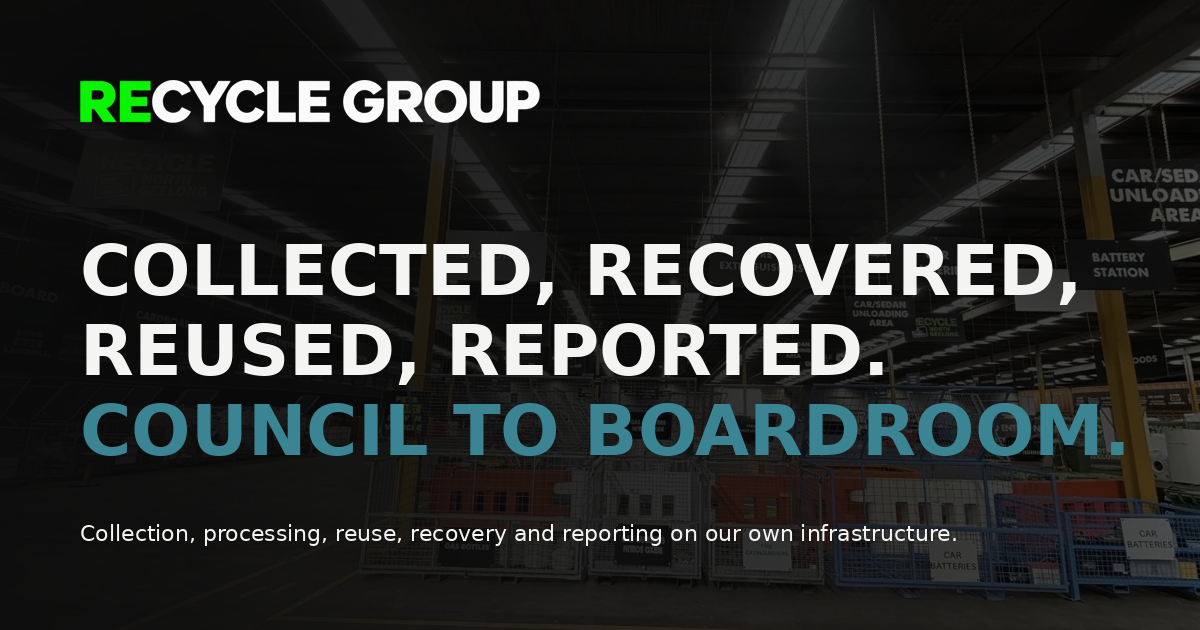
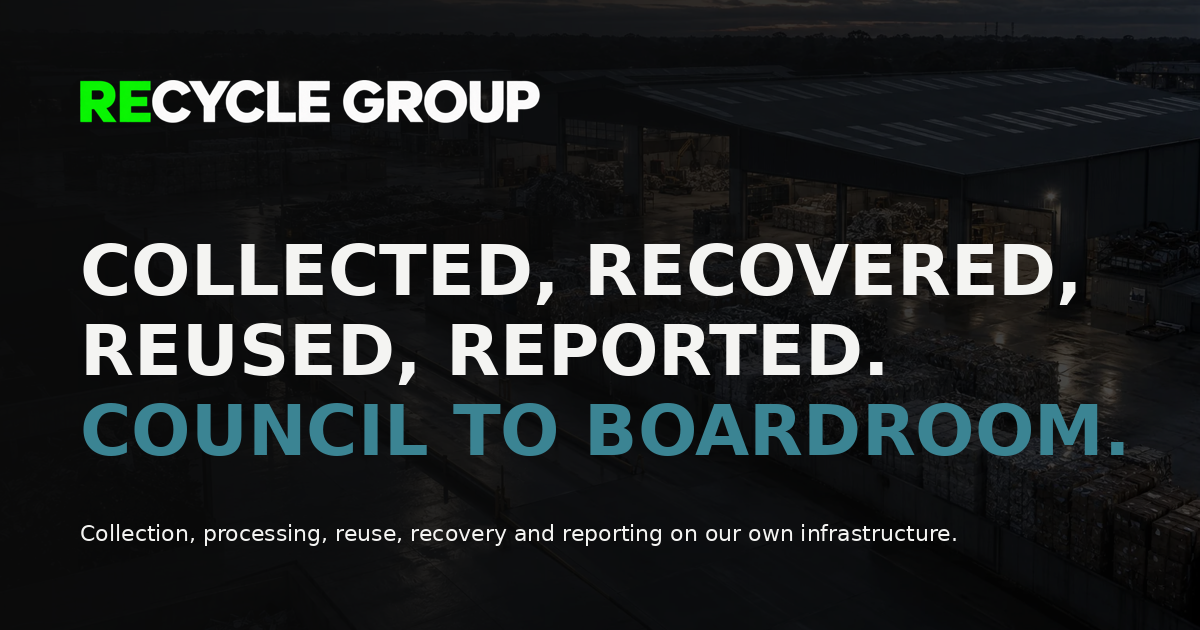
v7 imagery: 28 generated photographs — home hero and cards, every sector page, every role page, every material stream; captions and alt text updated

diff --git a/docs/materials/index.html b/docs/materials/index.html
@@ -21,7 +21,7 @@
   <div class="photo" style="background-image:url(/recycle-group/img/infra-mattress-line.webp)" aria-hidden="true"></div><div class="shade" aria-hidden="true"></div>
   
   <div class="wrap"><div class="eyebrow">Materials</div><h1 class="h1">Nothing here is&nbsp;“away”.</h1><p class="sub">What happens to each material stream after the weighbridge — where it goes, what it becomes and what the group can show for it.</p></div>
-</section><section class="sec light"><div class="wrap"><div style="border-top:1px solid var(--line)"><div class="stream rv"><div class="n">01</div><div class="ph"><img src="/recycle-group/img/infra-mattress-line.webp" alt="Mattress processing line with recovered spring steel in a cage" loading="lazy"></div><div><h3>Mattresses<small>The Mattress Recycling Company</small></h3><p>Every mattress is stripped to steel, foam, timber and fibre. The steel is baled and exported as a commodity; per 10,000 mattresses around 270 tonnes of steel come out of 800 tonnes in, with 99% of that steel recovered. Shredded residual is a quarter of its original volume — less landfill space and better compaction.</p></div><div class="facts"><div><span>Processed</span><b>12,000–30,000 a month</b></div><div><span>Steel content</span><b>about 30% by weight</b></div><div><span>Time per mattress</span><b>about 38 seconds</b></div><div><span>Steel recovered</span><b>99%</b></div><div><span>Residual volume</span><b>25% of original</b></div></div></div><div class="stream rv"><div class="n">02</div><div class="ph"><img src="/recycle-group/img/infra-polystyrene.webp" alt="Cage of expanded polystyrene awaiting densification" loading="lazy"></div><div><h3>Polystyrene&nbsp;(EPS)<small>Styro</small></h3><p>Expanded polystyrene is up to 98% air. Styro densifies it into blocks a fraction of the size and reprocesses it for products such as picture frames, cornices and laminated timber — and exports processed EPS under the group's own licence. Australia generates around 45,000 tonnes of polystyrene a year.</p></div><div class="facts"><div><span>Saved from landfill</span><b>41,580 m³ in 12 months</b></div><div><span>Per 40 ft container</span><b>6,930 m³</b></div><div><span>Plant</span><b>Australia's largest</b></div><div><span>Export licence</span><b>WASTE-LIC-2026-V6M6D7 (EPS)</b></div></div></div><div class="stream rv"><div class="n">03</div><div class="ph"><img src="/recycle-group/img/infra-cardboard.webp" alt="Baled cardboard in a cage ready for containerisation" loading="lazy"></div><div><h3>Cardboard &amp;&nbsp;paper<small>Recycle North Geelong</small></h3><p>Cardboard is separated at the sort line, baled on the group's own balers and conveyors, containerised and exported. Retail, ports and logistics generate it by the tonne; the group turns it into a commodity rather than a cost.</p></div><div class="facts"><div><span>Pathway</span><b>Bale → container → export</b></div><div><span>Equipment</span><b>Balers and conveyors on site</b></div></div></div><div class="stream rv"><div class="n">04</div><div class="ph"><img src="/recycle-group/img/process-excavator.webp" alt="Excavator loading material inside the resource recovery centre" loading="lazy"></div><div><h3>Timber &amp;&nbsp;pallets<small>Recycle North Geelong · Timbercycle</small></h3><p>Pallets, dunnage, fit-out timber and plain timber are separated on site and recovered for reprocessing.</p></div><div class="facts"><div><span>Sources</span><b>Pallets, dunnage, fit-outs, construction</b></div><div><span>Pathway</span><b>Recovery and reprocessing</b></div></div></div><div class="stream rv"><div class="n">05</div><div class="ph"><img src="/recycle-group/img/recover-container.webp" alt="Forklift loading baled mattress steel into a shipping container" loading="lazy"></div><div><h3>Metals<small>Recycle North Geelong · The Mattress Recycling Company</small></h3><p>Metals come off the sort line and out of every mattress. Baled spring steel and recovered metals are exported as commodities — the group's $8.5 million investment in mattress processing was made to recover 99% of that steel.</p></div><div class="facts"><div><span>Mattress steel a year</span><b>3,800–9,600 tonnes</b></div><div><span>Pathway</span><b>Baled → containerised → exported</b></div></div></div><div class="stream rv"><div class="n">06</div><div class="ph"><img src="/recycle-group/img/infra-station.webp" alt="Public drop-off bins at the Recycle North Geelong entrance" loading="lazy"></div><div><h3>Green&nbsp;waste<small>Nunjara</small></h3><p>Green waste is accepted at the resource recovery centre and directed to the group's own infrastructure at Nunjara, where every inbound load is recorded by material and volume.</p></div><div class="facts"><div><span>Pathway</span><b>Group infrastructure</b></div><div><span>Recorded</span><b>Company, vehicle, origin, material, volume</b></div></div></div><div class="stream rv"><div class="n">07</div><div class="ph"><img src="/recycle-group/img/infra-reuse-floor.webp" alt="Recovered furniture on the Recycle Warehouse reuse floor" loading="lazy"></div><div><h3>Furniture &amp; household&nbsp;goods<small>Recycle Warehouse · Love Junk</small></h3><p>Anything that still has a life goes to reuse before recycling is considered — through Recycle Warehouse, Love Junk, Vogue Vintage and community material-aid partners.</p></div><div class="facts"><div><span>Pathway</span><b>Reuse first</b></div><div><span>Channels</span><b>Retail, marketplace, charity partners</b></div></div></div></div>
+</section><section class="sec light"><div class="wrap"><div style="border-top:1px solid var(--line)"><div class="stream rv"><div class="n">01</div><div class="ph"><img src="/recycle-group/img/gen-e1-mattresses.webp" alt="Close-up of recovered steel mattress springs" loading="lazy"></div><div><h3>Mattresses<small>The Mattress Recycling Company</small></h3><p>Every mattress is stripped to steel, foam, timber and fibre. The steel is baled and exported as a commodity; per 10,000 mattresses around 270 tonnes of steel come out of 800 tonnes in, with 99% of that steel recovered. Shredded residual is a quarter of its original volume — less landfill space and better compaction.</p></div><div class="facts"><div><span>Processed</span><b>12,000–30,000 a month</b></div><div><span>Steel content</span><b>about 30% by weight</b></div><div><span>Time per mattress</span><b>about 38 seconds</b></div><div><span>Steel recovered</span><b>99%</b></div><div><span>Residual volume</span><b>25% of original</b></div></div></div><div class="stream rv"><div class="n">02</div><div class="ph"><img src="/recycle-group/img/gen-e2-eps.webp" alt="Densified polystyrene blocks" loading="lazy"></div><div><h3>Polystyrene&nbsp;(EPS)<small>Styro</small></h3><p>Expanded polystyrene is up to 98% air. Styro densifies it into blocks a fraction of the size and reprocesses it for products such as picture frames, cornices and laminated timber — and exports processed EPS under the group's own licence. Australia generates around 45,000 tonnes of polystyrene a year.</p></div><div class="facts"><div><span>Saved from landfill</span><b>41,580 m³ in 12 months</b></div><div><span>Per 40 ft container</span><b>6,930 m³</b></div><div><span>Plant</span><b>Australia's largest</b></div><div><span>Export licence</span><b>WASTE-LIC-2026-V6M6D7 (EPS)</b></div></div></div><div class="stream rv"><div class="n">03</div><div class="ph"><img src="/recycle-group/img/gen-e3-cardboard.webp" alt="Cut face of a compressed cardboard bale" loading="lazy"></div><div><h3>Cardboard &amp;&nbsp;paper<small>Recycle North Geelong</small></h3><p>Cardboard is separated at the sort line, baled on the group's own balers and conveyors, containerised and exported. Retail, ports and logistics generate it by the tonne; the group turns it into a commodity rather than a cost.</p></div><div class="facts"><div><span>Pathway</span><b>Bale → container → export</b></div><div><span>Equipment</span><b>Balers and conveyors on site</b></div></div></div><div class="stream rv"><div class="n">04</div><div class="ph"><img src="/recycle-group/img/gen-e4-timber.webp" alt="Timber offcuts and broken pallet boards" loading="lazy"></div><div><h3>Timber &amp;&nbsp;pallets<small>Recycle North Geelong · Timbercycle</small></h3><p>Pallets, dunnage, fit-out timber and plain timber are separated on site and recovered for reprocessing.</p></div><div class="facts"><div><span>Sources</span><b>Pallets, dunnage, fit-outs, construction</b></div><div><span>Pathway</span><b>Recovery and reprocessing</b></div></div></div><div class="stream rv"><div class="n">05</div><div class="ph"><img src="/recycle-group/img/gen-e5-metals.webp" alt="Bin of mixed ferrous scrap" loading="lazy"></div><div><h3>Metals<small>Recycle North Geelong · The Mattress Recycling Company</small></h3><p>Metals come off the sort line and out of every mattress. Baled spring steel and recovered metals are exported as commodities — the group's $8.5 million investment in mattress processing was made to recover 99% of that steel.</p></div><div class="facts"><div><span>Mattress steel a year</span><b>3,800–9,600 tonnes</b></div><div><span>Pathway</span><b>Baled → containerised → exported</b></div></div></div><div class="stream rv"><div class="n">06</div><div class="ph"><img src="/recycle-group/img/gen-e6-green.webp" alt="Shredded green waste and branches" loading="lazy"></div><div><h3>Green&nbsp;waste<small>Nunjara</small></h3><p>Green waste is accepted at the resource recovery centre and directed to the group's own infrastructure at Nunjara, where every inbound load is recorded by material and volume.</p></div><div class="facts"><div><span>Pathway</span><b>Group infrastructure</b></div><div><span>Recorded</span><b>Company, vehicle, origin, material, volume</b></div></div></div><div class="stream rv"><div class="n">07</div><div class="ph"><img src="/recycle-group/img/gen-e7-furniture.webp" alt="Second-hand chairs and a sofa stacked for reuse" loading="lazy"></div><div><h3>Furniture &amp; household&nbsp;goods<small>Recycle Warehouse · Love Junk</small></h3><p>Anything that still has a life goes to reuse before recycling is considered — through Recycle Warehouse, Love Junk, Vogue Vintage and community material-aid partners.</p></div><div class="facts"><div><span>Pathway</span><b>Reuse first</b></div><div><span>Channels</span><b>Retail, marketplace, charity partners</b></div></div></div></div>
 <div class="two-col" style="margin-top:clamp(48px,6vw,80px)">
   <div><div class="eyebrow">Accepted at Recycle North Geelong</div><p class="lead" style="margin-top:18px">More than 90 streams under cover, six days a week — including paint, car, domestic and lithium batteries, NOS canisters, fire extinguishers and tyres, accepted broadly to discourage unlawful dumping.</p></div>
   <div><div class="eyebrow">Not accepted, anywhere in the group</div><ul class="check" style="margin-top:18px"><li>Asbestos</li><li>Prescribed waste</li><li>Hazardous chemicals</li><li>Firearms and explosives</li></ul><p class="note">These never enter the group's figures. Residual is reported in full rather than netted off.</p></div>

diff --git a/docs/index.html b/docs/index.html
@@ -18,8 +18,8 @@
   <button class="nav-toggle" id="navToggle" aria-label="Toggle navigation" aria-expanded="false" aria-controls="navLinks"><span></span></button></div>
 </div></nav>
 <section class="hero home">
-  <div class="photo" style="background-image:url(/recycle-group/img/hero-facility.webp)" aria-hidden="true"></div><div class="shade" aria-hidden="true"></div>
-  <div class="cap">Recycle North Geelong · resource recovery centre</div>
+  <div class="photo" style="background-image:url(/recycle-group/img/gen-b1-home-hero.webp)" aria-hidden="true"></div><div class="shade" aria-hidden="true"></div>
+  <div class="cap">Collection · transfer · processing · reuse · reporting</div>
   <div class="wrap"><div class="hero-copy"><div class="eyebrow">Waste to resources · Australia</div><h1 class="h1"><span class="ln">Collected, recovered,</span><br><span class="ln">reused, reported.</span><br><span class="ln">Council to boardroom.</span></h1><p class="sub">Recycle Group collects, sorts, processes, reuses, recovers and reports — for councils, governments, corporations and the operators of ports, roads, rail, vessels and national facilities — on its own collection, transfer, processing, reuse and landfill infrastructure.</p><div class="actions"><a href="/recycle-group/contact/" class="btn btn-solid">Partner with us</a><a href="/recycle-group/who-we-work-with/" class="tlink">The sectors we work in</a></div></div><aside class="gpanel" aria-label="The Recycle Group family"><div class="gp-head"><div class="eyebrow">One group · six roles</div><a href="/recycle-group/the-group/">The whole family →</a></div><a class="gp-row" href="/recycle-group/the-group/collection/"><span class="gp-role"><i>01</i>Collect</span><span class="gp-biz"><span>JUNK</span> <span>Trash.</span> <span>Rubbish</span> <span>Declutter</span> <span>JUNK NZ</span></span></a><a class="gp-row" href="/recycle-group/the-group/recovery/"><span class="gp-role"><i>02</i>Recover</span><span class="gp-biz"><span>Recycle North Geelong</span> <span>The Mattress Recycling Company</span> <span>Styro</span> <span>Timbercycle</span> <span>Shred</span> <span>National Steel</span></span></a><a class="gp-row" href="/recycle-group/the-group/reuse/"><span class="gp-role"><i>03</i>Reuse</span><span class="gp-biz"><span>Recycle Warehouse</span> <span>Freecycle</span> <span>Love Junk</span> <span>Vogue Vintage</span></span></a><a class="gp-row" href="/recycle-group/the-group/enterprise/"><span class="gp-role"><i>04</i>Report</span><span class="gp-biz"><span>RG Resources</span> <span>RG Connect</span></span></a><a class="gp-row" href="/recycle-group/the-group/infrastructure/"><span class="gp-role"><i>05</i>Landfill last</span><span class="gp-biz"><span>Nunjara</span></span></a><a class="gp-row" href="/recycle-group/the-group/systems/"><span class="gp-role"><i>06</i>Systems</span><span class="gp-biz"><span>eCheck</span> <span>Community &amp; material aid</span> <span>The Streets Barbershop</span></span></a><div class="gp-foot"><span>Collection · processing · reuse · reporting · landfill</span><span>All on our own infrastructure</span></div></aside></div>
 </section><div class="marq"><div class="wrap"><div class="mq-label">Who we work <i>with</i></div><div class="mq"><div class="mq-track"><a href="/recycle-group/who-we-work-with/councils/">Councils</a><a href="/recycle-group/who-we-work-with/governments/">Governments</a><a href="/recycle-group/who-we-work-with/corporations/">Corporations</a><a href="/recycle-group/who-we-work-with/real-estate/">National solutions for real estate agents</a><a href="/recycle-group/who-we-work-with/retailers/">National solutions for retailers</a><a href="/recycle-group/who-we-work-with/parks/">National parks and facility managers</a><a href="/recycle-group/who-we-work-with/roads/">State road operators</a><a href="/recycle-group/who-we-work-with/rail/">National rail and terminal operators</a><a href="/recycle-group/who-we-work-with/ports/">Ports</a><a href="/recycle-group/who-we-work-with/vessels/">Cargo vessels</a><a href="/recycle-group/who-we-work-with/global/">Trans-global partners</a><a href="/recycle-group/who-we-work-with/">Domestic &amp; international partners</a><span class="dup" aria-hidden="true"><a href="/recycle-group/who-we-work-with/councils/">Councils</a><a href="/recycle-group/who-we-work-with/governments/">Governments</a><a href="/recycle-group/who-we-work-with/corporations/">Corporations</a><a href="/recycle-group/who-we-work-with/real-estate/">National solutions for real estate agents</a><a href="/recycle-group/who-we-work-with/retailers/">National solutions for retailers</a><a href="/recycle-group/who-we-work-with/parks/">National parks and facility managers</a><a href="/recycle-group/who-we-work-with/roads/">State road operators</a><a href="/recycle-group/who-we-work-with/rail/">National rail and terminal operators</a><a href="/recycle-group/who-we-work-with/ports/">Ports</a><a href="/recycle-group/who-we-work-with/vessels/">Cargo vessels</a><a href="/recycle-group/who-we-work-with/global/">Trans-global partners</a><a href="/recycle-group/who-we-work-with/">Domestic &amp; international partners</a></span></div></div></div></div>
 <section class="sec tight" style="padding-top:0"><div class="wrap"><div class="stats">
@@ -32,9 +32,9 @@
 <section class="sec light"><div class="wrap">
   <div class="sec-head"><div><div class="eyebrow">What Recycle Group does</div><h2 class="h2">Collection is the easy&nbsp;part.</h2></div><p class="lead">Knowing what happened to everything afterwards is where Recycle Group begins. Material is collected, weighed, separated, processed into commodities or returned to use, and every stream is reported — because collection, transfer, processing and reuse all sit inside the group.</p></div>
   <div class="cards">
-    <a class="card link rv" href="/recycle-group/solutions/"><figure><div class="ph"><img src="/recycle-group/img/collect-mattress.webp" alt="Crew carrying a mattress at The Mattress Recycling Company" loading="lazy"></div><figcaption class="cap"><i>01</i><div><b>Collect</b><p>Scheduled programs, clearances and hard-waste collections run by the group's own crews and fleet.</p></div></figcaption></figure></a>
-    <a class="card link rv" href="/recycle-group/infrastructure/"><figure><div class="ph"><img src="/recycle-group/img/process-excavator.webp" alt="Excavator loading material inside the Recycle North Geelong resource recovery centre" loading="lazy"></div><figcaption class="cap"><i>02</i><div><b>Process</b><p>Weighed in, separated into 90+ streams under cover, processed in the group's own facilities.</p></div></figcaption></figure></a>
-    <a class="card link rv" href="/recycle-group/reporting/"><figure><div class="ph"><img src="/recycle-group/img/recover-container.webp" alt="Forklift loading baled mattress steel into a shipping container" loading="lazy"></div><figcaption class="cap"><i>03</i><div><b>Recover &amp; report</b><p>Commodities exported, goods reused, residual published in full. A diversion statement for every program.</p></div></figcaption></figure></a>
+    <a class="card link rv" href="/recycle-group/solutions/"><figure><div class="ph"><img src="/recycle-group/img/gen-a1-collect.webp" alt="Crew loading a mattress into a collection truck at a suburban kerb" loading="lazy"></div><figcaption class="cap"><i>01</i><div><b>Collect</b><p>Scheduled programs, clearances and hard-waste collections run by the group's own crews and fleet.</p></div></figcaption></figure></a>
+    <a class="card link rv" href="/recycle-group/infrastructure/"><figure><div class="ph"><img src="/recycle-group/img/gen-a2-process.webp" alt="Excavator sorting material into bays inside a recovery shed" loading="lazy"></div><figcaption class="cap"><i>02</i><div><b>Process</b><p>Weighed in, separated into 90+ streams under cover, processed in the group's own facilities.</p></div></figcaption></figure></a>
+    <a class="card link rv" href="/recycle-group/reporting/"><figure><div class="ph"><img src="/recycle-group/img/gen-a3-recover-report.webp" alt="Forklift loading a bale of recovered steel into a shipping container" loading="lazy"></div><figcaption class="cap"><i>03</i><div><b>Recover &amp; report</b><p>Commodities exported, goods reused, residual published in full. A diversion statement for every program.</p></div></figcaption></figure></a>
   </div>
 </div></section>
 

diff --git a/docs/the-group/index.html b/docs/the-group/index.html
@@ -18,7 +18,7 @@
   <button class="nav-toggle" id="navToggle" aria-label="Toggle navigation" aria-expanded="false" aria-controls="navLinks"><span></span></button></div>
 </div></nav>
 <section class="hero short">
-  <div class="photo" style="background-image:url(/recycle-group/img/texture-springs.webp)" aria-hidden="true"></div><div class="shade" aria-hidden="true"></div>
+  <div class="photo" style="background-image:url(/recycle-group/img/gen-d3-reuse.webp)" aria-hidden="true"></div><div class="shade" aria-hidden="true"></div>
   
   <div class="wrap"><div class="eyebrow">The Recycle Group family</div><h1 class="h1">One group. Six&nbsp;roles.</h1><p class="sub">Every business in the group has a defined role in the chain of custody — collection, processing, reuse, enterprise reporting, infrastructure or systems. This is the one page where they are all laid out.</p></div>
 </section><section class="sec light"><div class="wrap"><div class="facet rv" id="collection"><div><div class="eyebrow">01 · Role</div><h2 class="h2">Collection</h2><p class="role">The customer-facing brands that collect. They bring material into the group instead of sending it to a tip.</p><div class="actions" style="margin-top:22px"><a href="/recycle-group/the-group/collection/" class="tlink">About this role</a></div></div><div class="blist"><div class="brow"><b>JUNK</b><span>Rubbish removal, house and commercial clean-outs. Melbourne and Brisbane.</span><a href="https://junk.com.au">junk.com.au</a></div><div class="brow"><b>Trash.</b><span>Online booking for bulky household items — fridge, mattress, couch, trampoline. Big stuff, gone.</span><a href="https://trash.com.au">trash.com.au</a></div><div class="brow"><b>Rubbish</b><span>Same-day residential rubbish removal.</span><a href="https://rubbish.com.au">rubbish.com.au</a></div><div class="brow"><b>Declutter</b><span>Decluttering and re-organising, run by women, for women. Geelong.</span><a href="https://declutter.com.au">declutter.com.au</a></div><div class="brow"><b>JUNK NZ</b><span>JUNK in New Zealand.</span><a href="https://junk.nz">junk.nz</a></div></div></div><div class="facet rv" id="recovery"><div><div class="eyebrow">02 · Role</div><h2 class="h2">Resource recovery &amp;&nbsp;processing</h2><p class="role">The facilities. Material is weighed, separated into more than 90 streams and processed into commodities here.</p><div class="actions" style="margin-top:22px"><a href="/recycle-group/the-group/recovery/" class="tlink">About this role</a></div></div><div class="blist"><div class="brow"><b>Recycle North Geelong</b><span>Purpose-built resource recovery centre and public transfer station, 116 Furner Avenue. Undercover, six days a week, 90+ streams.</span><a href="https://recycle.net.au">recycle.net.au</a></div><div class="brow"><b>The Mattress Recycling Company</b><span>Mattresses stripped to steel, foam, timber and fibre. 250,000+ a year; more than half of Victoria's discarded mattresses.</span><a href="https://themattressrecyclingcompany.com.au">themattressrecyclingcompany.com.au</a></div><div class="brow"><b>Styro</b><span>Expanded polystyrene densified and reprocessed; licensed for export of processed EPS.</span><a href="https://styro.com.au">styro.com.au</a></div><div class="brow"><b>Timbercycle</b><span>Timber recovery and reprocessing.</span><em class="tbc" style="margin:0">URL to confirm</em></div><div class="brow"><b>Shred</b><span>Shredding and size reduction of recovered material.</span><em class="tbc" style="margin:0">URL to confirm</em></div><div class="brow"><b>National Steel</b><span>Recovered steel, baled and supplied to market.</span><em class="tbc" style="margin:0">URL to confirm</em></div></div></div><div class="facet rv" id="reuse"><div><div class="eyebrow">03 · Role</div><h2 class="h2">Reuse &amp;&nbsp;retail</h2><p class="role">Goods that still have a life go back into use before recycling is considered.</p><div class="actions" style="margin-top:22px"><a href="/recycle-group/the-group/reuse/" class="tlink">About this role</a></div></div><div class="blist"><div class="brow"><b>Recycle Warehouse</b><span>Furniture and household essentials supplied to people in need through charity partners, and sold direct to the public. Geelong.</span><a href="https://recyclewarehouse.com.au">recyclewarehouse.com.au</a></div><div class="brow"><b>Freecycle</b><span>Free reuse of recovered goods.</span><em class="tbc" style="margin:0">To confirm</em></div><div class="brow"><b>Love Junk</b><span>Community reuse marketplace.</span><a href="https://lovejunk.com.au">lovejunk.com.au</a></div><div class="brow"><b>Vogue Vintage</b><span>Curated vintage furniture — Australian and Danish design.</span><a href="https://voguevintage.com.au">voguevintage.com.au</a></div></div></div><div class="facet rv" id="enterprise"><div><div class="eyebrow">04 · Role</div><h2 class="h2">Enterprise recovery &amp;&nbsp;reporting</h2><p class="role">For organisations that manage property, materials and assets at scale — and need to prove what happened to them.</p><div class="actions" style="margin-top:22px"><a href="/recycle-group/the-group/enterprise/" class="tlink">About this role</a></div></div><div class="blist"><div class="brow"><b>RG Resources</b><span>Enterprise resource-recovery partner for banks, property groups, councils, government, retail, logistics and industrial portfolios. Site → collection → sorting → recovery → reporting.</span><a href="https://rg-resources.netlify.app">rgresources</a></div><div class="brow"><b>RG Connect</b><span>The client platform: sites, collections, materials, impact, reports and documents in one place.</span><a href="https://rg-resources.netlify.app/rg-connect/">RG Connect</a></div></div></div><div class="facet rv" id="infrastructure"><div><div class="eyebrow">05 · Role</div><h2 class="h2">Infrastructure</h2><p class="role">The end of the chain. What cannot be reused or recycled is managed here — landfill last, and recorded.</p><div class="actions" style="margin-top:22px"><a href="/recycle-group/the-group/infrastructure/" class="tlink">About this role</a></div></div><div class="blist"><div class="brow"><b>Nunjara</b><span>The group's landfill site and its material load register — every inbound load recorded by company, vehicle, origin, material and volume.</span><em class="tbc" style="margin:0">Spelling &amp; URL to confirm</em></div></div></div><div class="facet rv" id="systems"><div><div class="eyebrow">06 · Role</div><h2 class="h2">Systems &amp;&nbsp;community</h2><p class="role">What keeps the group safe and connected to the people it serves.</p><div class="actions" style="margin-top:22px"><a href="/recycle-group/the-group/systems/" class="tlink">About this role</a></div></div><div class="blist"><div class="brow"><b>eCheck</b><span>The group's own daily safety, training, policy and compliance system — pre-start checks, incident reporting, training records, policies.</span><a href="https://echeck.com.au">echeck.com.au</a></div><div class="brow"><b>Community &amp; material aid</b><span>Recovered goods redistributed through community organisations and material-aid partners.</span><em class="tbc" style="margin:0">Name to confirm</em></div><div class="brow"><b>The Streets Barbershop</b><span>Community enterprise.</span><em class="tbc" style="margin:0">To confirm</em></div></div></div></div></section>

diff --git a/docs/who-we-work-with/index.html b/docs/who-we-work-with/index.html
@@ -18,7 +18,7 @@
   <button class="nav-toggle" id="navToggle" aria-label="Toggle navigation" aria-expanded="false" aria-controls="navLinks"><span></span></button></div>
 </div></nav>
 <section class="hero short">
-  <div class="photo" style="background-image:url(/recycle-group/img/infra-station.webp)" aria-hidden="true"></div><div class="shade" aria-hidden="true"></div>
+  <div class="photo" style="background-image:url(/recycle-group/img/gen-c08-rail.webp)" aria-hidden="true"></div><div class="shade" aria-hidden="true"></div>
   
   <div class="wrap"><div class="eyebrow">Sectors</div><h1 class="h1">Where we&nbsp;operate.</h1><p class="sub">Recycle Group partners with companies, domestic or international, solving sustainability problems.</p></div>
 </section><section class="sec light"><div class="wrap"><div class="subnav" style="margin:0 0 48px"><a href="/recycle-group/who-we-work-with/councils/">Councils</a><a href="/recycle-group/who-we-work-with/governments/">Governments</a><a href="/recycle-group/who-we-work-with/corporations/">Corporations</a><a href="/recycle-group/who-we-work-with/real-estate/">National solutions for real estate agents</a><a href="/recycle-group/who-we-work-with/retailers/">National solutions for retailers</a><a href="/recycle-group/who-we-work-with/parks/">National parks and facility managers</a><a href="/recycle-group/who-we-work-with/roads/">State road operators</a><a href="/recycle-group/who-we-work-with/rail/">National rail and terminal operators</a><a href="/recycle-group/who-we-work-with/ports/">Ports</a><a href="/recycle-group/who-we-work-with/vessels/">Cargo vessels</a><a href="/recycle-group/who-we-work-with/global/">Trans-global partners</a></div><div class="group-title">Public sector</div><div class="rows" style="border-top:0"><a class="row rv" href="/recycle-group/who-we-work-with/councils/" id="councils"><div class="n">01</div><h3>Councils</h3><p>Hard waste programs, transfer station operation, resource recovery contracts and the diversion reporting a council can publish and defend.</p><span class="tlink" style="margin-top:14px">Read more</span></a><a class="row rv" href="/recycle-group/who-we-work-with/governments/" id="governments"><div class="n">02</div><h3>Governments</h3><p>State and federal agencies with sites, fleets and facilities to clear — delivered under procurement that expects measured outcomes, compliance and a named contact.</p><span class="tlink" style="margin-top:14px">Read more</span></a></div><div class="group-title">Corporate &amp; national programs</div><div class="rows" style="border-top:0"><a class="row rv" href="/recycle-group/who-we-work-with/corporations/" id="corporations"><div class="n">03</div><h3>Corporations</h3><p>Multi-site recycling programs run as one contract with one reporting standard, from head office to the warehouse floor.</p><span class="tlink" style="margin-top:14px">Read more</span></a><a class="row rv" href="/recycle-group/who-we-work-with/real-estate/" id="real-estate"><div class="n">04</div><h3>National solutions for real estate&nbsp;agents</h3><p>End-of-lease, vacant possession and property clearances delivered the same way in every office and every state, with a collection statement for each job.</p><span class="tlink" style="margin-top:14px">Read more</span></a><a class="row rv" href="/recycle-group/who-we-work-with/retailers/" id="retailers"><div class="n">05</div><h3>National solutions for&nbsp;retailers</h3><p>Store fit-outs, refits, packaging and stock clearance across a store network, with material recovered and reported by site.</p><span class="tlink" style="margin-top:14px">Read more</span></a></div><div class="group-title">Infrastructure &amp; facilities</div><div class="rows" style="border-top:0"><a class="row rv" href="/recycle-group/who-we-work-with/parks/" id="parks"><div class="n">06</div><h3>National parks and facility&nbsp;managers</h3><p>Managed and remote sites: dumped material, seasonal clean-ups, facility clearances and material recovery where access is hard.</p><span class="tlink" style="margin-top:14px">Read more</span></a><a class="row rv" href="/recycle-group/who-we-work-with/roads/" id="roads"><div class="n">07</div><h3>State road&nbsp;operators</h3><p>Corridor and rest-area clean-ups, dumped material and the recovery of timber, metal and rubble from road assets.</p><span class="tlink" style="margin-top:14px">Read more</span></a><a class="row rv" href="/recycle-group/who-we-work-with/rail/" id="rail"><div class="n">08</div><h3>National rail and terminal&nbsp;operators</h3><p>Terminals, corridors and yards cleared on schedule, with recovered material tracked back to each site.</p><span class="tlink" style="margin-top:14px">Read more</span></a><a class="row rv" href="/recycle-group/who-we-work-with/ports/" id="ports"><div class="n">09</div><h3>Ports</h3><p>High-volume packaging, timber dunnage, metals and mixed streams from port precincts, recovered and reported.</p><span class="tlink" style="margin-top:14px">Read more</span></a></div><div class="group-title">Maritime &amp; global</div><div class="rows" style="border-top:0"><a class="row rv" href="/recycle-group/who-we-work-with/vessels/" id="vessels"><div class="n">10</div><h3>Cargo&nbsp;vessels</h3><p>Vessel and cargo-related waste and packaging landed, sorted and recovered through the group's own facilities.</p><span class="tlink" style="margin-top:14px">Read more</span></a><a class="row rv" href="/recycle-group/who-we-work-with/global/" id="global"><div class="n">11</div><h3>Trans-global&nbsp;partners</h3><p>Recovery, processing and export of commodities for international partners — including processed polystyrene under the group's export licence.</p><span class="tlink" style="margin-top:14px">Read more</span></a></div></div></section>

diff --git a/docs/solutions/index.html b/docs/solutions/index.html
@@ -18,7 +18,7 @@
   <button class="nav-toggle" id="navToggle" aria-label="Toggle navigation" aria-expanded="false" aria-controls="navLinks"><span></span></button></div>
 </div></nav>
 <section class="hero short">
-  <div class="photo" style="background-image:url(/recycle-group/img/band-forklift.webp)" aria-hidden="true"></div><div class="shade" aria-hidden="true"></div>
+  <div class="photo" style="background-image:url(/recycle-group/img/gen-d2-recover.webp)" aria-hidden="true"></div><div class="shade" aria-hidden="true"></div>
   
   <div class="wrap"><div class="eyebrow">Solutions</div><h1 class="h1">A recycling program, end to&nbsp;end.</h1><p class="sub">Most operators collect and hand off, so the chain of custody ends at the gate. Recycle Group owns each step — collection, transfer, processing, reuse and reporting — so the program is designed once and run as one system.</p></div>
 </section><section class="sec light"><div class="wrap"><div class="rows"><div class="row rv"><div class="n">01</div><h3>Program design &amp;&nbsp;contracts</h3><div><p>We map your material streams, sites and volumes, then design a program with the recovery pathway for each stream agreed before it starts.</p><ul class="tags"><li>Stream audit</li><li>Multi-site</li><li>Recurring or one-off</li></ul></div></div><div class="row rv"><div class="n">02</div><h3>Collection &amp;&nbsp;clearance</h3><div><p>Scheduled collections, bulk clearances and hard-waste programs run by the group's own crews and fleet, with the lifting and loading done by us.</p><ul class="tags"><li>Hard waste</li><li>Clearances</li><li>Scheduled runs</li></ul></div></div><div class="row rv"><div class="n">03</div><h3>Transfer &amp;&nbsp;sorting</h3><div><p>Every load is weighed in, separated into more than 90 material streams on site, and weighed again before it leaves — the basis of every figure we report.</p><ul class="tags"><li>Weighbridge</li><li>90+ streams</li><li>Undercover</li></ul></div></div><div class="row rv"><div class="n">04</div><h3>Material&nbsp;processing</h3><div><p>Mattresses, polystyrene, timber, cardboard, metals and green waste processed in the group's own facilities and recycled back into manufacturing as commodities.</p><ul class="tags"><li>Mattresses</li><li>EPS</li><li>Timber</li><li>Cardboard</li><li>Metal</li></ul></div></div><div class="row rv"><div class="n">05</div><h3>Reuse &amp; community redistribution</h3><div><p>Furniture and goods that still have a life are rehomed through the group's reuse operations and community partners before recycling is considered.</p><ul class="tags"><li>Reuse first</li><li>Material aid</li><li>Retail</li></ul></div></div><div class="row rv"><div class="n">06</div><h3>Reporting &amp;&nbsp;evidence</h3><div><p>Diversion statements per collection, site and program — recovered tonnes over received tonnes, with residual published rather than netted off.</p><ul class="tags"><li>Diversion rate</li><li>By stream</li><li>By site</li></ul></div></div></div></div></section>

diff --git a/docs/who-we-work-with/governments/index.html b/docs/who-we-work-with/governments/index.html
@@ -18,7 +18,7 @@
   <button class="nav-toggle" id="navToggle" aria-label="Toggle navigation" aria-expanded="false" aria-controls="navLinks"><span></span></button></div>
 </div></nav>
 <section class="hero short">
-  <div class="photo" style="background-image:url(/recycle-group/img/hero-facility.webp)" aria-hidden="true"></div><div class="shade" aria-hidden="true"></div>
+  <div class="photo" style="background-image:url(/recycle-group/img/gen-c02-governments.webp)" aria-hidden="true"></div><div class="shade" aria-hidden="true"></div>
   
   <div class="wrap"><div class="eyebrow">Sector 02</div><h1 class="h1">Governments</h1><p class="sub">State and federal agencies buy recycling the way they buy everything else: through procurement that expects measured outcomes, compliance and a named contact.</p><div class="actions"><a href="/recycle-group/contact/" class="btn btn-solid">Partner with us</a><a href="/recycle-group/who-we-work-with/" class="tlink">All sectors</a></div></div>
 </section><section class="sec light"><div class="wrap">

diff --git a/docs/who-we-work-with/real-estate/index.html b/docs/who-we-work-with/real-estate/index.html
@@ -18,7 +18,7 @@
   <button class="nav-toggle" id="navToggle" aria-label="Toggle navigation" aria-expanded="false" aria-controls="navLinks"><span></span></button></div>
 </div></nav>
 <section class="hero short">
-  <div class="photo" style="background-image:url(/recycle-group/img/infra-reuse-floor.webp)" aria-hidden="true"></div><div class="shade" aria-hidden="true"></div>
+  <div class="photo" style="background-image:url(/recycle-group/img/gen-c04-real-estate.webp)" aria-hidden="true"></div><div class="shade" aria-hidden="true"></div>
   
   <div class="wrap"><div class="eyebrow">Sector 04</div><h1 class="h1">National solutions for real estate&nbsp;agents</h1><p class="sub">End-of-lease, vacant possession and property clearances delivered the same way in every office and every state.</p><div class="actions"><a href="/recycle-group/contact/" class="btn btn-solid">Partner with us</a><a href="/recycle-group/who-we-work-with/" class="tlink">All sectors</a></div></div>
 </section><section class="sec light"><div class="wrap">

diff --git a/docs/who-we-work-with/retailers/index.html b/docs/who-we-work-with/retailers/index.html
@@ -18,7 +18,7 @@
   <button class="nav-toggle" id="navToggle" aria-label="Toggle navigation" aria-expanded="false" aria-controls="navLinks"><span></span></button></div>
 </div></nav>
 <section class="hero short">
-  <div class="photo" style="background-image:url(/recycle-group/img/infra-cardboard.webp)" aria-hidden="true"></div><div class="shade" aria-hidden="true"></div>
+  <div class="photo" style="background-image:url(/recycle-group/img/gen-c05-retailers.webp)" aria-hidden="true"></div><div class="shade" aria-hidden="true"></div>
   
   <div class="wrap"><div class="eyebrow">Sector 05</div><h1 class="h1">National solutions for&nbsp;retailers</h1><p class="sub">Store fit-outs, refits, packaging and stock clearance across a store network, with material recovered and reported by site.</p><div class="actions"><a href="/recycle-group/contact/" class="btn btn-solid">Partner with us</a><a href="/recycle-group/who-we-work-with/" class="tlink">All sectors</a></div></div>
 </section><section class="sec light"><div class="wrap">

diff --git a/docs/who-we-work-with/parks/index.html b/docs/who-we-work-with/parks/index.html
@@ -18,7 +18,7 @@
   <button class="nav-toggle" id="navToggle" aria-label="Toggle navigation" aria-expanded="false" aria-controls="navLinks"><span></span></button></div>
 </div></nav>
 <section class="hero short">
-  <div class="photo" style="background-image:url(/recycle-group/img/process-excavator.webp)" aria-hidden="true"></div><div class="shade" aria-hidden="true"></div>
+  <div class="photo" style="background-image:url(/recycle-group/img/gen-c06-parks.webp)" aria-hidden="true"></div><div class="shade" aria-hidden="true"></div>
   
   <div class="wrap"><div class="eyebrow">Sector 06</div><h1 class="h1">National parks and facility&nbsp;managers</h1><p class="sub">Managed and remote sites: dumped material, seasonal clean-ups and facility clearances where access is hard.</p><div class="actions"><a href="/recycle-group/contact/" class="btn btn-solid">Partner with us</a><a href="/recycle-group/who-we-work-with/" class="tlink">All sectors</a></div></div>
 </section><section class="sec light"><div class="wrap">

diff --git a/docs/who-we-work-with/rail/index.html b/docs/who-we-work-with/rail/index.html
@@ -18,7 +18,7 @@
   <button class="nav-toggle" id="navToggle" aria-label="Toggle navigation" aria-expanded="false" aria-controls="navLinks"><span></span></button></div>
 </div></nav>
 <section class="hero short">
-  <div class="photo" style="background-image:url(/recycle-group/img/recover-container.webp)" aria-hidden="true"></div><div class="shade" aria-hidden="true"></div>
+  <div class="photo" style="background-image:url(/recycle-group/img/gen-c08-rail.webp)" aria-hidden="true"></div><div class="shade" aria-hidden="true"></div>
   
   <div class="wrap"><div class="eyebrow">Sector 08</div><h1 class="h1">National rail and terminal&nbsp;operators</h1><p class="sub">Terminals, corridors and yards cleared on schedule, with recovered material tracked back to each site.</p><div class="actions"><a href="/recycle-group/contact/" class="btn btn-solid">Partner with us</a><a href="/recycle-group/who-we-work-with/" class="tlink">All sectors</a></div></div>
 </section><section class="sec light"><div class="wrap">

diff --git a/docs/who-we-work-with/corporations/index.html b/docs/who-we-work-with/corporations/index.html
@@ -18,7 +18,7 @@
   <button class="nav-toggle" id="navToggle" aria-label="Toggle navigation" aria-expanded="false" aria-controls="navLinks"><span></span></button></div>
 </div></nav>
 <section class="hero short">
-  <div class="photo" style="background-image:url(/recycle-group/img/infra-cardboard.webp)" aria-hidden="true"></div><div class="shade" aria-hidden="true"></div>
+  <div class="photo" style="background-image:url(/recycle-group/img/gen-c03-corporations.webp)" aria-hidden="true"></div><div class="shade" aria-hidden="true"></div>
   
   <div class="wrap"><div class="eyebrow">Sector 03</div><h1 class="h1">Corporations</h1><p class="sub">One program that behaves the same way at every site — the same streams, the same collection standard, the same report.</p><div class="actions"><a href="/recycle-group/contact/" class="btn btn-solid">Partner with us</a><a href="/recycle-group/who-we-work-with/" class="tlink">All sectors</a></div></div>
 </section><section class="sec light"><div class="wrap">

diff --git a/docs/who-we-work-with/roads/index.html b/docs/who-we-work-with/roads/index.html
@@ -18,7 +18,7 @@
   <button class="nav-toggle" id="navToggle" aria-label="Toggle navigation" aria-expanded="false" aria-controls="navLinks"><span></span></button></div>
 </div></nav>
 <section class="hero short">
-  <div class="photo" style="background-image:url(/recycle-group/img/band-forklift.webp)" aria-hidden="true"></div><div class="shade" aria-hidden="true"></div>
+  <div class="photo" style="background-image:url(/recycle-group/img/gen-c07-roads.webp)" aria-hidden="true"></div><div class="shade" aria-hidden="true"></div>
   
   <div class="wrap"><div class="eyebrow">Sector 07</div><h1 class="h1">State road&nbsp;operators</h1><p class="sub">Corridor and rest-area clean-ups, dumped material and the recovery of timber, metal and rubble from road assets.</p><div class="actions"><a href="/recycle-group/contact/" class="btn btn-solid">Partner with us</a><a href="/recycle-group/who-we-work-with/" class="tlink">All sectors</a></div></div>
 </section><section class="sec light"><div class="wrap">
